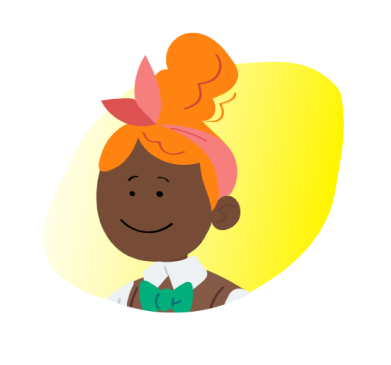
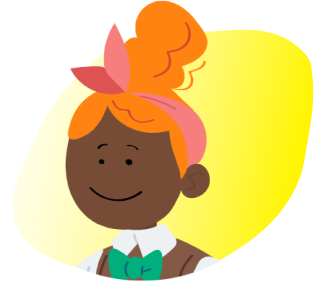
style: add images to cards

Changed region(s): [[0.0303, 0.0, 0.9697, 0.96], [0.303, 0.48, 0.4242, 0.57]]

diff --git a/index.html b/index.html
@@ -57,7 +57,7 @@
       </section>
       <section class="cards">
         <div class="cards__item">
-          <!-- <img class="cards__image cards__image_place_first" src="images/stressed.png" alt="lemon"> -->
+          <img class="cards__image cards__image_place_first" src="images/stressed.png" alt="stressed girl">
           <div class="cards__paragraph cards__paragraph_place_first">
             <h2 class="cards__title">Do you feel stressed?</h2>
             <p class="cards__text">
@@ -68,7 +68,7 @@
           </div>
         </div>
         <div class="cards__item">
-          <!-- <img class="cards__image cards__image_place_second" src="images/help.png" alt="lemon"> -->
+          <img class="cards__image cards__image_place_second" src="images/help.png" alt="nice girl">
           <div class="cards__paragraph cards__paragraph_place_second">
             <h2 class="cards__title">Are you ready to help?</h2>
             <p class="cards__text">
@@ -79,7 +79,7 @@
           </div>
         </div>
         <div class="cards__item">
-          <!-- <img class="cards__image cards__image_place_third" src="images/diary.png" alt="lemon"> -->
+          <img class="cards__image cards__image_place_third" src="images/diary.png" alt="diary">
           <div class="cards__paragraph cards__paragraph_place_third">
             <h2 class="cards__title">COVID-19 Digital Diary?</h2>
             <p class="cards__text">
@@ -90,7 +90,7 @@
           </div>
         </div>
         <div class="cards__item">
-          <!-- <img class="cards__image cards__image_place_fourth" src="images/medical.png" alt="lemon"> -->
+          <img class="cards__image cards__image_place_fourth" src="images/medical.png" alt="online doctor">
           <div class="cards__paragraph cards__paragraph_place_fourth">
             <h2 class="cards__title">Medical help online</h2>
             <p class="cards__text">

diff --git a/pages/index.css b/pages/index.css
@@ -30,6 +30,9 @@
 @import url(../blocks/cards/__item/cards__item.css);
 @import url(../blocks/cards/__image/cards__image.css);
 @import url(../blocks/cards/__image/_place/cards__image_place_first.css);
+@import url(../blocks/cards/__image/_place/cards__image_place_second.css);
+@import url(../blocks/cards/__image/_place/cards__image_place_third.css);
+@import url(../blocks/cards/__image/_place/cards__image_place_fourth.css);
 @import url(../blocks/cards/__paragraph/cards__paragraph.css);
 @import url(../blocks/cards/__paragraph/_place/cards__paragraph_place_first.css);
 @import url(../blocks/cards/__paragraph/_place/cards__paragraph_place_second.css);

diff --git a/blocks/cards/__image/_place/cards__image_place_first.css b/blocks/cards/__image/_place/cards__image_place_first.css
@@ -1,7 +1,8 @@
 .cards__image_place_first {
-    /* height: 428px;
-    width: 428px;
-    margin-top: 16px;
-    margin-left: 16px; */
+    height: 244px;
+    width: 320px;
+    position: absolute;
+    top: 21px;
+    left: 24px;
     z-index: 0;
 }

diff --git a/blocks/cards/__image/_place/cards__image_place_fourth.css b/blocks/cards/__image/_place/cards__image_place_fourth.css
@@ -1,0 +1,8 @@
+.cards__image_place_fourth {
+    height: 309px;
+    width: 345px;
+    position: absolute;
+    top: 114px;
+    right: 5px;
+    z-index: 0;
+}

diff --git a/blocks/cards/__image/_place/cards__image_place_second.css b/blocks/cards/__image/_place/cards__image_place_second.css
@@ -1,0 +1,8 @@
+.cards__image_place_second {
+    height: 300px;
+    width: 330px;
+    position: absolute;
+    top: 8px;
+    right: 14px;
+    z-index: 0;
+}

diff --git a/blocks/cards/__image/_place/cards__image_place_third.css b/blocks/cards/__image/_place/cards__image_place_third.css
@@ -1,0 +1,8 @@
+.cards__image_place_third {
+    height: 300px;
+    width: 303px;
+    position: absolute;
+    top: 120px;
+    left: 17px;
+    z-index: 0;
+}

diff --git a/blocks/cards/__item/cards__item.css b/blocks/cards/__item/cards__item.css
@@ -9,6 +9,7 @@
   padding: 0;
   position: relative;
   text-align: left;
+  display: flex;
 }
 
 .cards__item:hover {
